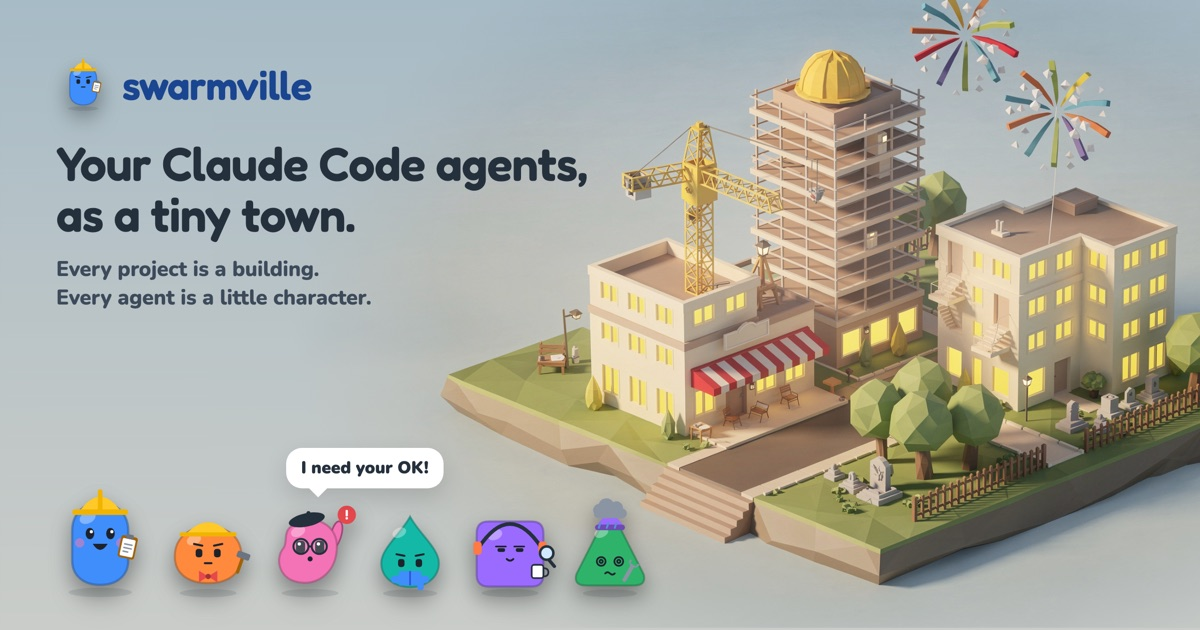
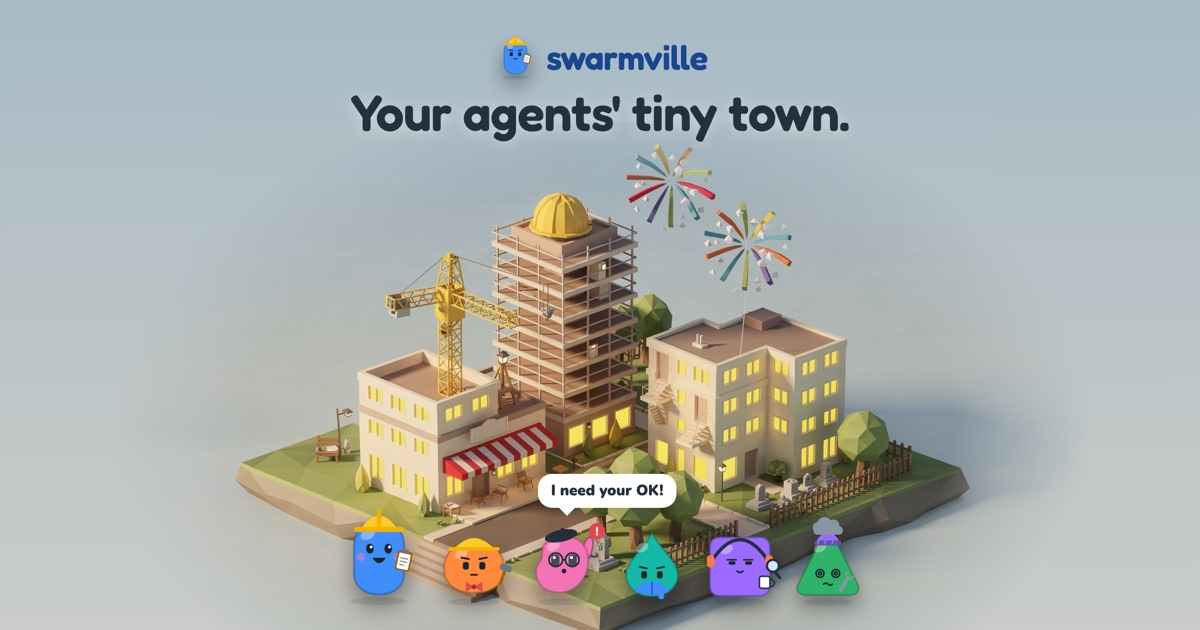
Link card is square-safe with a short headline: "Your agents' tiny town."
Everything that matters (wordmark, headline, town, crew) now sits in the centre 630x630, so WhatsApp's small square thumbnail shows the whole thing. Shorter og:title too, and og.jpg?v=2 so cached previews refresh.

diff --git a/site/index.html b/site/index.html
@@ -10,16 +10,16 @@
 <!-- Link previews (WhatsApp, iMessage, Slack, X). WhatsApp needs absolute URLs and an image under ~300 KB. -->
 <meta property="og:type" content="website">
 <meta property="og:site_name" content="Swarmville">
-<meta property="og:title" content="Swarmville: your Claude Code agents, as a tiny town">
+<meta property="og:title" content="Swarmville: your agents' tiny town">
 <meta property="og:description" content="See what Claude is working on for you, as friendly characters in your own little town. Free, private, and set up in one minute on your Mac.">
 <meta property="og:url" content="https://varunfrancis.github.io/swarmville/">
-<meta property="og:image" content="https://varunfrancis.github.io/swarmville/og.jpg">
+<meta property="og:image" content="https://varunfrancis.github.io/swarmville/og.jpg?v=2">
 <meta property="og:image:type" content="image/jpeg">
 <meta property="og:image:width" content="1200">
 <meta property="og:image:height" content="630">
 <meta property="og:image:alt" content="A tiny low-poly town with a crew of cute characters, one for each Claude Code agent.">
 <meta name="twitter:card" content="summary_large_image">
-<meta name="twitter:image" content="https://varunfrancis.github.io/swarmville/og.jpg">
+<meta name="twitter:image" content="https://varunfrancis.github.io/swarmville/og.jpg?v=2">
 <meta name="color-scheme" content="light dark">
 <link rel="preconnect" href="https://fonts.googleapis.com">
 <link rel="stylesheet" href="https://fonts.googleapis.com/css2?family=Fredoka:wght@500;600;700&family=Nunito:wght@600;700;800;900&display=swap">

diff --git a/site/setup.html b/site/setup.html
@@ -13,13 +13,13 @@
 <meta property="og:title" content="How to set up Swarmville">
 <meta property="og:description" content="Set up Swarmville on your Mac in about a minute: click the button, press Enter, click Allow.">
 <meta property="og:url" content="https://varunfrancis.github.io/swarmville/setup.html">
-<meta property="og:image" content="https://varunfrancis.github.io/swarmville/og.jpg">
+<meta property="og:image" content="https://varunfrancis.github.io/swarmville/og.jpg?v=2">
 <meta property="og:image:type" content="image/jpeg">
 <meta property="og:image:width" content="1200">
 <meta property="og:image:height" content="630">
 <meta property="og:image:alt" content="A tiny low-poly town with a crew of cute characters, one for each Claude Code agent.">
 <meta name="twitter:card" content="summary_large_image">
-<meta name="twitter:image" content="https://varunfrancis.github.io/swarmville/og.jpg">
+<meta name="twitter:image" content="https://varunfrancis.github.io/swarmville/og.jpg?v=2">
 <meta name="color-scheme" content="light dark">
 <link rel="preconnect" href="https://fonts.googleapis.com">
 <link rel="stylesheet" href="https://fonts.googleapis.com/css2?family=Fredoka:wght@500;600;700&family=Nunito:wght@600;700;800;900&display=swap">
